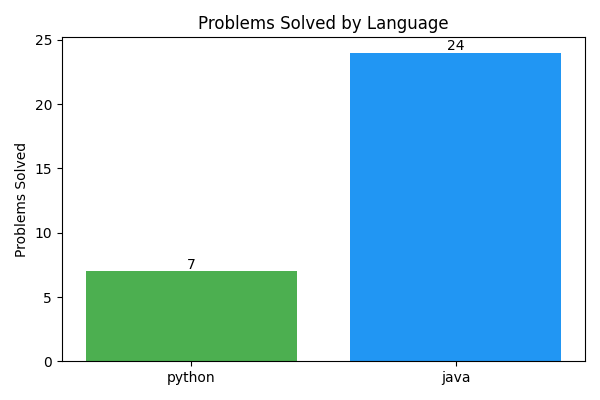
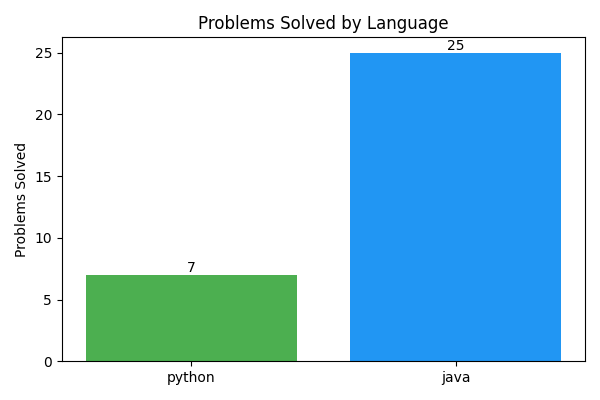
112-path-sum

diff --git a/easy/112-path-sum/solution/Solution.java b/easy/112-path-sum/solution/Solution.java
@@ -1,0 +1,10 @@
+class Solution {
+    public boolean hasPathSum(TreeNode root, int targetSum) {
+        if(root == null) return false;
+        if(root.left == null && root.right == null){
+            if(targetSum-root.val == 0) return true;
+            else return false;
+        }
+        return hasPathSum(root.left, targetSum-root.val) || hasPathSum(root.right, targetSum-root.val);
+    }
+}

diff --git a/easy/112-path-sum/README.md b/easy/112-path-sum/README.md
@@ -1,0 +1,104 @@
+# 112. Path Sum
+
+**Difficulty:** Easy  
+**Link:** [https://leetcode.com/problems/path-sum/](https://leetcode.com/problems/path-sum/)
+
+## Problem Description
+
+Given the 
+root
+ of a binary tree and an integer 
+targetSum
+, return 
+true
+ if the tree has a 
+root-to-leaf
+ path such that adding up all the values along the path equals 
+targetSum
+.
+
+
+A 
+leaf
+ is a node with no children.
+
+
+ 
+
+
+Example 1:
+
+
+
+
+
+
+Input:
+ root = [5,4,8,11,null,13,4,7,2,null,null,null,1], targetSum = 22
+
+Output:
+ true
+
+Explanation:
+ The root-to-leaf path with the target sum is shown.
+
+
+
+Example 2:
+
+
+
+
+
+
+Input:
+ root = [1,2,3], targetSum = 5
+
+Output:
+ false
+
+Explanation:
+ There are two root-to-leaf paths in the tree:
+(1 --> 2): The sum is 3.
+(1 --> 3): The sum is 4.
+There is no root-to-leaf path with sum = 5.
+
+
+
+Example 3:
+
+
+
+
+Input:
+ root = [], targetSum = 0
+
+Output:
+ false
+
+Explanation:
+ Since the tree is empty, there are no root-to-leaf paths.
+
+
+
+ 
+
+
+Constraints:
+
+
+
+
+The number of nodes in the tree is in the range 
+[0, 5000]
+.
+
+
+-1000 <= Node.val <= 1000
+
+
+-1000 <= targetSum <= 1000
+
+
+
+

diff --git a/README.md b/README.md
@@ -19,6 +19,8 @@ My solutions to LeetCode problems in Python and Java
 
 
 
+
+
 ## 📊 Problem Distribution
 ![By Difficulty and Language](assets/progress_difficulty_language.png)
 ![By Difficulty (Pie)](assets/pie_difficulty.png)
